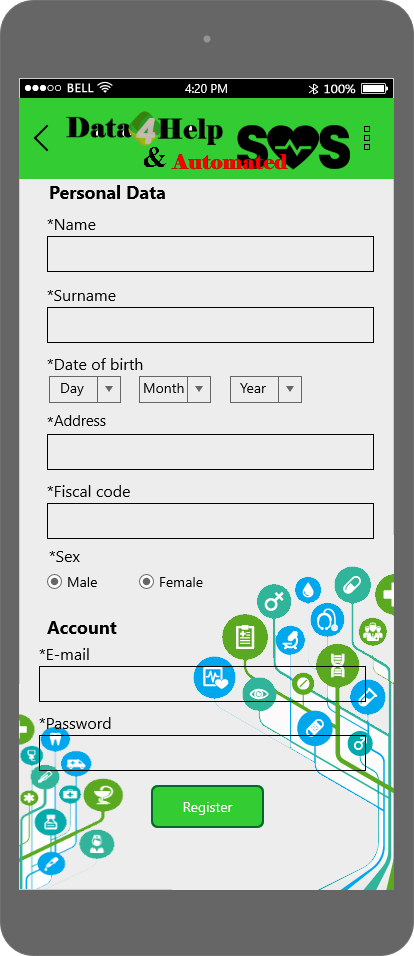
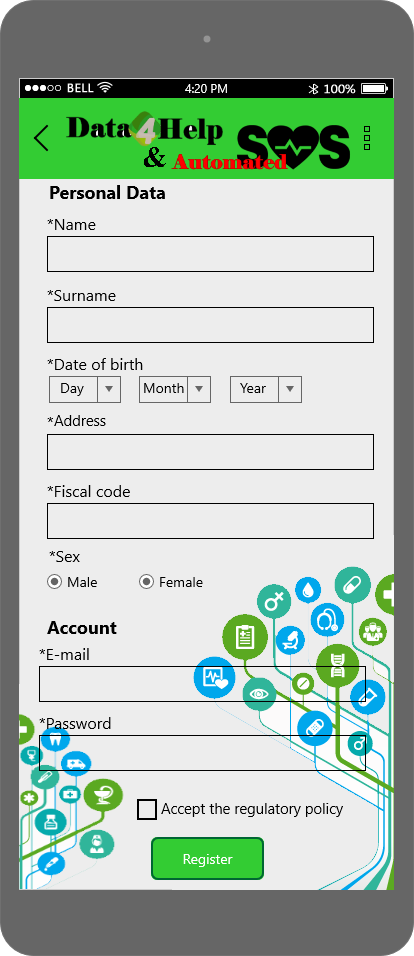
world and machine, some updates

Changed region(s): [[0.3188, 0.819, 0.7246, 0.9404], [0.7536, 0.819, 0.8116, 0.8494]]

diff --git a/RASD/Specific_Requirements/external_interfaces.tex b/RASD/Specific_Requirements/external_interfaces.tex
@@ -5,8 +5,11 @@
 \input{./Specific_Requirements/Interfaces/3p_interface.tex}
 
 \subsection{Hardware Interface}
+This is a software application whose main function is to collect data from single user, share them with third parties and give a medical service.\\
+The app for users requires using a smartphone that can access to internet, that can exploit GPS services to track their location and give it to the SOS service in case of unhealty users and bluetooth to connect the smartphone to the device which will collect health parameters.
+All sensors needed to collect and share health parameters are already installed on the device.\\
+The app for third parties only requires a smartphone or a computer which has access to the internet in oder to communicate with the system servers.
 
-This is a software application whose main function is to collect data from single user, share them with third parties and give a medical service. It requires using a smartphone that can exploit GPS services to track the location and give it to the SOS service in case of unhealty users and bluetooth to connect the smartphone to the device which will collect health parameters.
 
 \subsection{Software Interfaces}
 The server side of the app needs the following software products:
@@ -16,5 +19,7 @@ The server side of the app needs the following software products:
 	https://dev.mysql.com/downloads/mysql/5.7.html}).
 \end{itemize}It is also necessary a software that will be able to automatically connect the server to the informative system of E112, the european emergency number(USA and some other states have a software which automatically redirect the E112 call to their emercency centers). By a research this software is provided only by some automobilistic houses like BMW and Volvo and by a new device called eCall that has been introduced in Europe as mandatory on vehicle of classes M1 and N1 since the 31-03-2018.
 
+
 \subsection{Communication Interface}
+Users and third parties communicate with the server via \textit{HTTPS} protocol.
 A safe and stable communication must be always guarantee between the server and the SOS service everytime that a user becomese an unhealthy one; this is necessary in order to guarantee a really high performance and to send the correct data.

diff --git a/RASD/Specific_Requirements/design_constraints.tex b/RASD/Specific_Requirements/design_constraints.tex
@@ -1,4 +1,5 @@
 \subsection{Standard compliance}
+%still missing
 
 \subsection{Hardware limitations}
 The app for users requires a smartphone and a device that are compatible and which can be linked one to each other.\\
@@ -11,4 +12,6 @@ The smartphone must have the following properties:
 
 \end{itemize}The app for third parties requires a smartphone which has a 3G or 4G connection and an Android or IOS system.
 
-\subsection{Any other constraint}
+\subsection{Regulatory policies}
+The system must be allowed by users and third parties to collect, process and store their personal data; it also must be capable to delete them if a user or a third party requires it. While signing up users must give the permission to the system to share their data in an anonymized way and in the personal privacy respect.\\
+Users and third parties must use the system in a propert way respecting law and policies.

diff --git a/RASD/Introduction/scope.tex b/RASD/Introduction/scope.tex
@@ -18,3 +18,10 @@ As already said in the previous section \textit{TrackMe}'s system as the aim to 
 \end{itemize}
 
 \subsection{World and Machine}
+The aim of this subsection is to describe the problem following the World and Machine model. The World domain is the set of all real-life events in which the Machine will be introduced and in which the its actions will be observed. The Machine domain is the set of all phenomena which it can control such as algorithms, devices, inputs from the world.\\
+Those two domains are connected via Shared Phenomena which are World's events and Machine's actions which are observable by both domains.
+
+\begin{figure}[h!]
+	\includegraphics[width=1.00\textwidth]{./pictures/world_machine.png}\par
+	\caption{Figure 1: World and Machine diagram}
+\end{figure}

diff --git a/RASD/Specific_Requirements/use_cases.tex b/RASD/Specific_Requirements/use_cases.tex
@@ -10,7 +10,7 @@
 \renewcommand{\arraystretch}{1.5}
 
 \begin{figure}[h!]
-	\includegraphics[width=1.1\textwidth]{./pictures/usecase_diagram.png}\par
+	\includegraphics[width=1.00\textwidth]{./pictures/usecase_diagram.png}\par
 	\caption{Figure 1: Use Case Diagram}
 \end{figure}
 

diff --git a/RASD/Introduction/references.tex b/RASD/Introduction/references.tex
@@ -1,0 +1,1 @@
+This document is strictly based on the specification concerning the RASD assignment for the Software Engineering II project, part of the course held by professor Matteo Rossi and Elisabetta Di Nitto at the Politecnico di Milano, A.Y 2018/2019.

diff --git a/RASD/RASD.tex b/RASD/RASD.tex
@@ -80,8 +80,10 @@
 	\input{./Introduction/def_acr_abbr.tex}
 
 	\section{References}
+	\input{./Introduction/references.tex}
 
 	\section{Document Structure}
+	\input{./Introduction/doc_structure.tex}
 
 	%Overall Description
 	\chapter{Overall Description}

diff --git a/RASD/Introduction/doc_structure.tex b/RASD/Introduction/doc_structure.tex
@@ -1,0 +1,6 @@
+This document consist in four sections:\par
+
+\textbf{Section 1}\par
+\textbf{Section 2}\par
+\textbf{Section 3}\par
+\textbf{Section 4}
